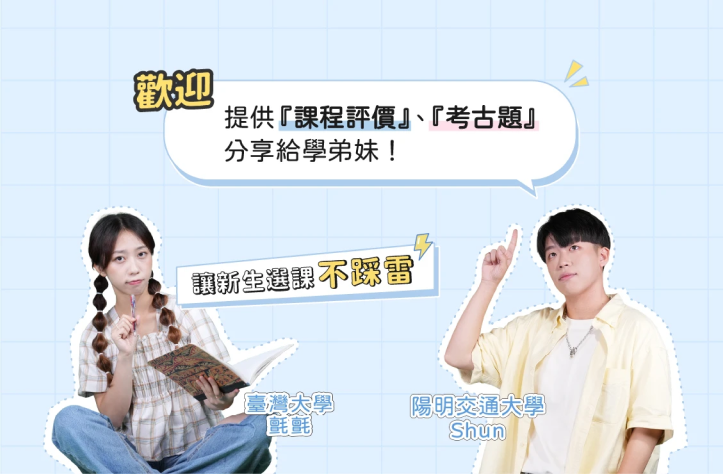
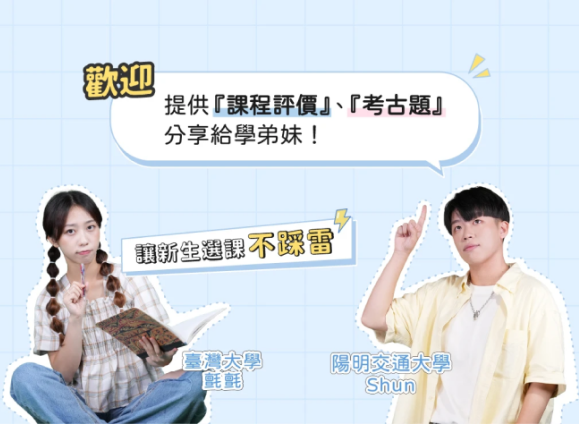
202310020936-1.0.2-更新打工前停看聽中間圖檔

Changed region(s): [[0.0, 0.1226, 1.0, 1.0]]

diff --git a/src/views/Working.vue b/src/views/Working.vue
@@ -96,7 +96,7 @@
                                 <div class="swiper-slide">
                                     <a href="https://1111.com.tw/216013/" target="_blank" class="d-block text-center">
                                         <picture class="d-block">
-                                            <source srcset="@/assets/images/partTime/img-theme-2.webp" type="image/webp">
+                                            <source srcset="@/assets/images/partTime/img-theme-2-1.webp" type="image/webp">
                                             <img src="@/assets/images/partTime/img-theme-2.png" alt="一起歐趴吧!" width="419" height="307" decoding="async" loading="lazy">
                                         </picture>
                                         <div class="py-2 sub-title">一起歐趴吧!</div>
